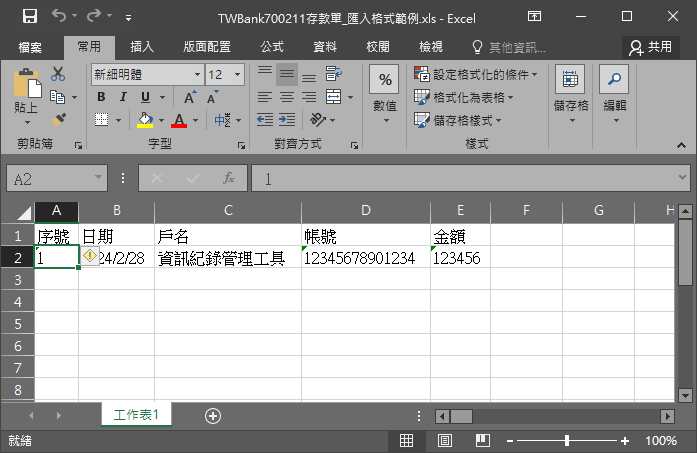
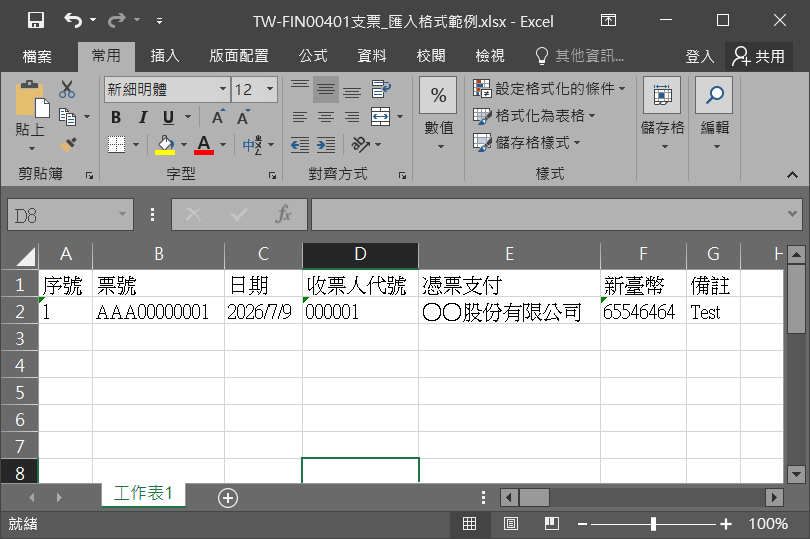
update web inforec

diff --git a/InfoRec/FormInfoRec.html b/InfoRec/FormInfoRec.html
@@ -1,61 +1,70 @@
-<!DOCTYPE html>
+<!doctype html>
 <html lang="zh-Hant-TW">
-<head>
-  <meta charset="UTF-8">
-  <meta name="viewport" content="width=device-width, initial-scale=1">
-  <title>InfoRec 資訊紀錄管理工具｜InfoRec</title>
-  <link rel="stylesheet" href="../css/site.css">
-  <script src="../js/redirect.js"></script>
-  <script src="../js/page-note.js"></script>
-</head>
-<body class="ir-page">
+  <head>
+    <meta charset="UTF-8" />
+    <meta name="viewport" content="width=device-width, initial-scale=1" />
+    <title>InfoRec 資訊紀錄管理工具｜InfoRec</title>
+    <link rel="stylesheet" href="../css/site.css" />
+    <script src="../js/redirect.js"></script>
+    <script src="../js/page-note.js"></script>
+  </head>
+  <body class="ir-page">
+    <h1>InfoRec 資訊紀錄管理工具</h1>
+    <hr />
 
-  <h1>InfoRec 資訊紀錄管理工具</h1>
-  <hr>
+    <p>
+      InfoRec
+      資訊紀錄管理工具，可分為功能表、工作頁、輸入列印等三個區域，說明如下。
+    </p>
 
-  <p>
-    InfoRec 資訊紀錄管理工具，可分為功能表、工作頁、輸入列印等三個區域，說明如下。
-  </p>
+    <ol class="ol-l1">
+      <li>
+        <a href="architecture_menu.html">功能表</a>：
+        軟體首頁之外的功能，均由功能表提供。功能表依常用、資料、文件、支援等數個項目分類。
+      </li>
+      <li>
+        <a href="Architecture_sheet.html">工作頁</a>：
+        進行資料輸入、列印前，需要先指定文件、文件的使用主體（使用人、銀行帳號）；提供對應的「工作頁」，顯示輸入參考資料及列印後的紀錄檢視。
+      </li>
+      <li>
+        <a href="architecture_inputprint.html">輸入列印</a>：
+        所有文件的資料輸入與列印作業，可在此區完成。為避免受限於螢幕或視窗大小限制，此區域也可以手動拖拉改變大小。
+      </li>
+    </ol>
 
-  <ol class="ol-l1">
-    <li>
-      <a href="architecture_menu.html">功能表</a>：
-      軟體首頁之外的功能，均由功能表提供。功能表依常用、資料、文件、支援等數個項目分類。
-    </li>
-    <li>
-      <a href="Architecture_sheet.html">工作頁</a>：
-      進行資料輸入、列印前，需要先指定文件、文件的使用主體（使用人、銀行帳號）；提供對應的「工作頁」，顯示輸入參考資料及列印後的紀錄檢視。
-    </li>
-    <li>
-      <a href="architecture_inputprint.html">輸入列印</a>：
-      所有文件的資料輸入與列印作業，可在此區完成。為避免受限於螢幕或視窗大小限制，此區域也可以手動拖拉改變大小。
-    </li>
-  </ol>
+    <figure id="img-homepage">
+      <img
+        class="winimg"
+        src="images/InfoRec.png"
+        alt="資訊紀錄管理工具 - 首頁"
+      />
+      <figcaption>資訊紀錄管理工具 - 首頁</figcaption>
+    </figure>
 
-  <figure id="img-homepage">
-    <img class="winimg" src="images/InfoRec.png" alt="資訊紀錄管理工具 - 首頁">
-    <figcaption>資訊紀錄管理工具 - 首頁</figcaption>
-  </figure>
+    <footer id="footerBlock" class="ir-footer">
+      ©<span id="siteYear"></span>&nbsp;InfoRec專案原創著作權人所有。
+    </footer>
 
-  <footer id="footerBlock" class="ir-footer">©<span id="siteYear"></span>&nbsp;InfoRec專案原創著作權人所有。</footer>
-
-  <script>
-    (function() {
-      // 系統安全高度通知與動態防禦機制
-      function notifyHeight() {
-        if (window.parent && window.parent.postMessage) {
-          window.parent.postMessage({ frameHeight: document.body.scrollHeight }, '*');
+    <script>
+      (function () {
+        // 系統安全高度通知與動態防禦機制
+        function notifyHeight() {
+          if (window.parent && window.parent.postMessage) {
+            window.parent.postMessage(
+              { frameHeight: document.body.scrollHeight },
+              "*",
+            );
+          }
         }
-      }
-      window.addEventListener('load', notifyHeight);
-      window.addEventListener('resize', notifyHeight);
-      
-      // 年份自動更新
-      var yearEl = document.getElementById('siteYear');
-      if (yearEl) {
-        yearEl.textContent = new Date().getFullYear();
-      }
-    })();
-  </script>
-</body>
+        window.addEventListener("load", notifyHeight);
+        window.addEventListener("resize", notifyHeight);
+
+        // 年份自動更新
+        var yearEl = document.getElementById("siteYear");
+        if (yearEl) {
+          yearEl.textContent = new Date().getFullYear();
+        }
+      })();
+    </script>
+  </body>
 </html>

diff --git a/InfoRec/FormImportPrint.html b/InfoRec/FormImportPrint.html
@@ -1,44 +1,69 @@
-<!DOCTYPE html>
+<!doctype html>
 <html lang="zh-Hant-TW">
-<head>
-  <meta charset="UTF-8">
-  <meta name="viewport" content="width=device-width, initial-scale=1, shrink-to-fit=no">
-  <title>匯入套印｜InfoRec</title>
-  <link rel="stylesheet" href="../css/site.css">
+  <head>
+    <meta charset="UTF-8" />
+    <meta
+      name="viewport"
+      content="width=device-width, initial-scale=1, shrink-to-fit=no"
+    />
+    <title>匯入套印｜InfoRec</title>
+    <link rel="stylesheet" href="../css/site.css" />
 
-  <script src="../js/redirect.js"></script>
-  <script src="../js/page-note.js"></script>
-</head>
+    <script src="../js/redirect.js"></script>
+    <script src="../js/page-note.js"></script>
+    <!-- 2027-7-11 -->
+  </head>
 
-<body class="ir-page">
+  <body class="ir-page">
+    <h1>匯入套印</h1>
+    <hr />
 
-  <h1>匯入套印</h1>
-  <hr>
+    <p>
+      匯入套印適用於整批、大量套印作業，將匯入資料取代人工逐筆紀錄，可節省時間並降低錯誤率。
+    </p>
 
-  <p>匯入套印適用於整批、大量套印作業，將匯入資料取代人工逐筆輸入，可節省時間並降低錯誤率。</p>
+    <h2>注意事項：</h2>
+    <ol class="ol-l1">
+      <li>
+        文件需先進行單筆測試，以確保套印內容正確無誤及套印位置正確，才可以使用本功能。
+      </li>
+      <li>匯入筆數無上限，但請先測試 3~5 筆，確認無誤後，再進行大量套印。</li>
+      <li>
+        範例與匯入檔案提供 XLSX 及 .tsv（純文字檔）兩種格式，即使環境未安裝
+        Office 辦公軟體，仍可順利執行匯入套印功能。
+      </li>
+    </ol>
 
-  <ol class="ol-l1">
-    <li>文件設定檔需先完成測試，可正確列印。</li>
-    <li>匯入筆數無上限，但需考量印表機紙張上限。</li>
-    <li>列印預覽提供檢視，正式作業可直接列印以加快速度。</li>
-    <li>
-      匯入資料：
-      <ul class="ul-l1">
-        <li>第一次建議執行「範例」，系統會產生正確匯入格式。</li>
-        <li>已列印記錄會同時作為操作示範。</li>
-      </ul>
-    </li>
-  </ol>
+    <h2>操作說明：</h2>
+    <ol class="ol-l1">
+      <li>
+        範例：每種文件的匯入格式皆不相同，「範例」功能將提供正確的格式，並將您單筆套印已列印之紀錄作為範例供使用者參考。
+      </li>
+      <li>匯入資料：將您依循前述「範例」格式所輸入的資料，整批匯入資料庫。</li>
+      <li>
+        列印範圍：若您的印表機無法自動進紙，或者您欲逐張列印，可選擇單筆列印。
+      </li>
+      <li>
+        預覽列印：可先預覽再列印，但數量若過於龐大時，因系統需要產生大量的底圖，處理速度將會變慢；若經過數輪測試確認無誤後，即可取消勾選預覽列印，直接印出即可。
+      </li>
+    </ol>
 
-  <figure>
-    <img class="winimg" src="images/FormImportPrint_UI.png" alt="匯入套印管理視窗">
-    <figcaption class="TACenter">匯入套印管理視窗</figcaption>
-  </figure>
+    <figure>
+      <img
+        class="winimg"
+        src="images/FormImportPrint_UI.png"
+        alt="匯入套印管理視窗"
+      />
+      <figcaption>匯入套印管理視窗</figcaption>
+    </figure>
 
-  <figure>
-    <img class="winimg" src="images/FormImportPrint_File.png" alt="匯入範例檔案">
-    <figcaption class="TACenter">匯入範例檔案</figcaption>
-  </figure>
-
-</body>
+    <figure>
+      <img
+        class="winimg"
+        src="images/FormImportPrint_File.png"
+        alt="匯入檔案格式（範例）"
+      />
+      <figcaption>匯入檔案格式（範例）</figcaption>
+    </figure>
+  </body>
 </html>